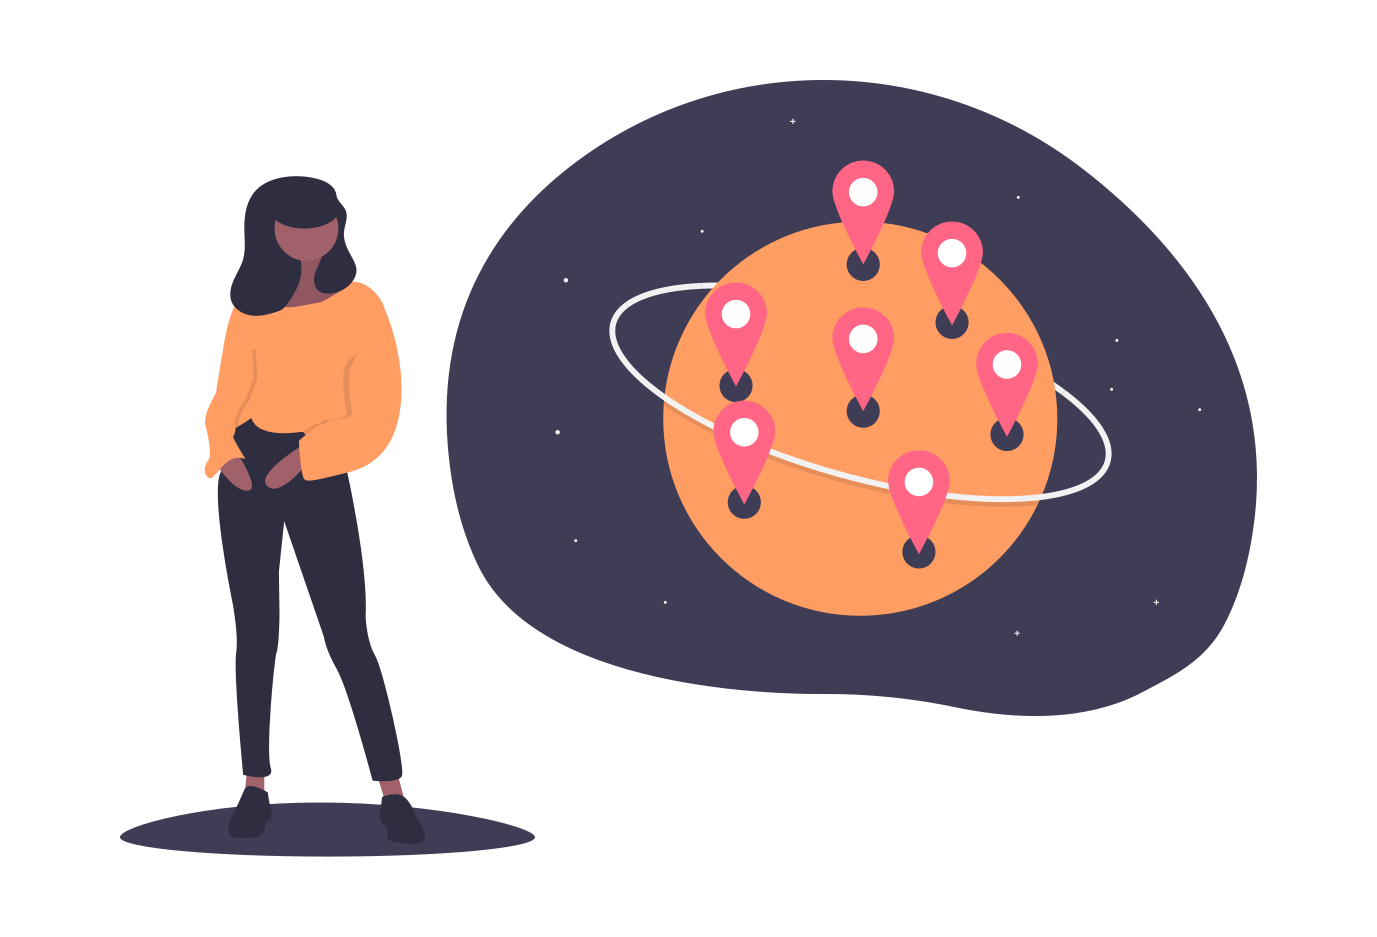
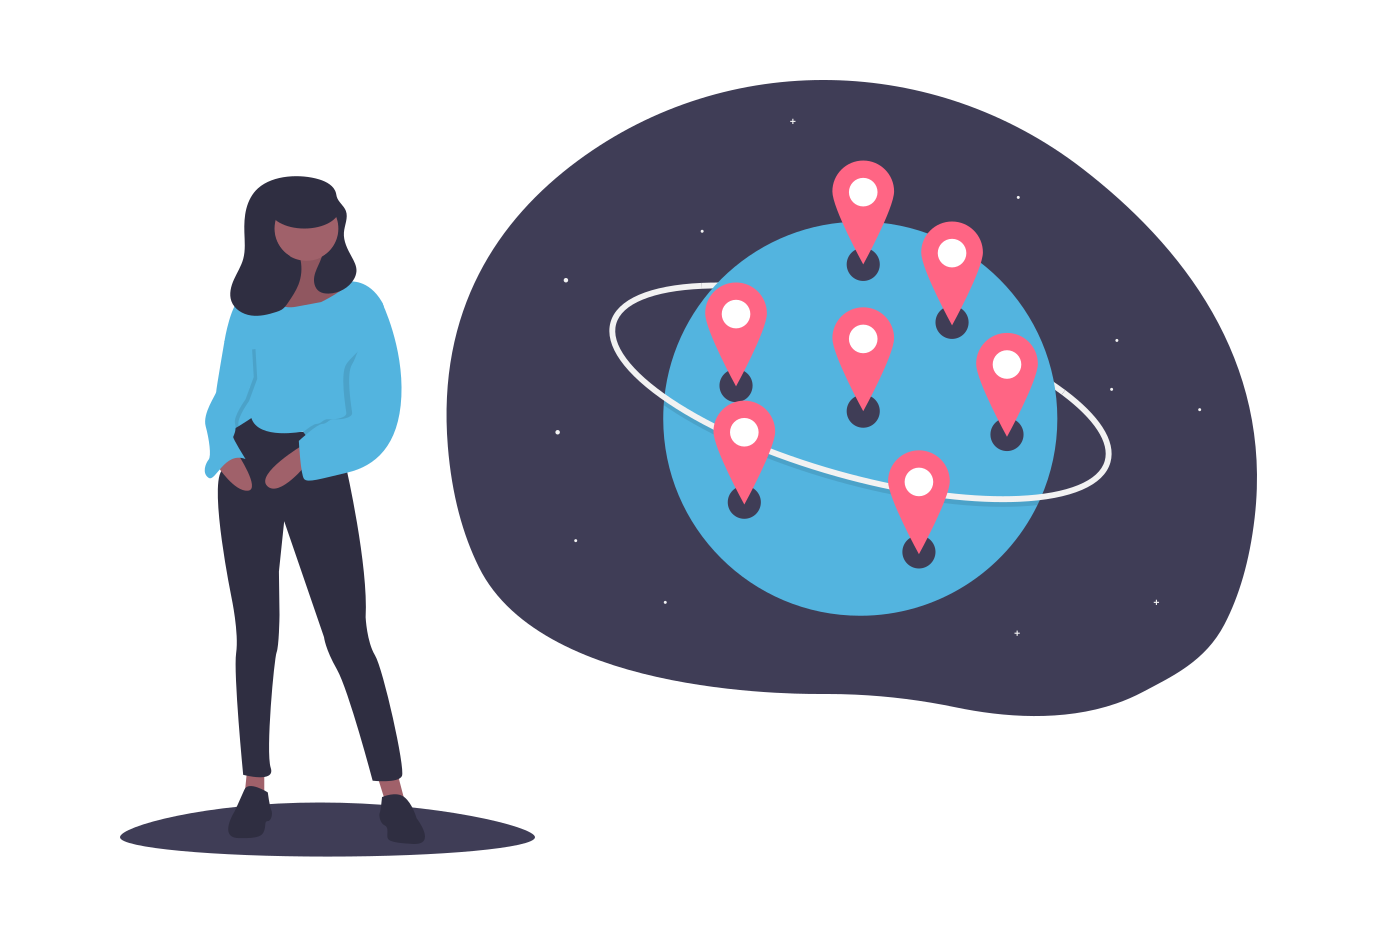
New Ui is all setup

Changed region(s): [[0.4684, 0.2166, 0.7807, 0.6809], [0.1249, 0.2785, 0.3123, 0.5261]]

diff --git a/app_flutter/readrun/lib/views/information.dart b/app_flutter/readrun/lib/views/information.dart
@@ -3,12 +3,13 @@ import 'package:auto_size_text/auto_size_text.dart';
 import 'package:flutter/material.dart';
 import 'package:flutter/painting.dart';
 import 'package:http/http.dart' as http;
+import 'package:readrun/constants.dart';
 import 'package:readrun/model/News.dart';
 import 'package:readrun/Widgets/Fetching_news_widget.dart';
-import 'package:google_fonts/google_fonts.dart';
 import 'package:readrun/views/server_down.dart';
 import 'package:readrun/views/starting_screen.dart';
 
+import '../HomeScreen.dart';
 import 'no_internet.dart';
 
 class Information extends StatefulWidget {
@@ -89,7 +90,7 @@ class _InformationState extends State<Information> {
                     return _buildStoryPage(list[currentIdx], active);
                   }
                 }),
-            StartScreen()
+            HomeScreen()
           ]);
 
   }
@@ -129,7 +130,7 @@ class _InformationState extends State<Information> {
                                       onPressed: () {print('Share');},
                                       icon: Icon(
                                         Icons.share,
-                                        color: Color(0xffFFBD95),size: 30,
+                                        color: kSecondaryColor,size: 30,
                                       ),
                                     ),
                             AutoSizeText('Share',
@@ -150,7 +151,7 @@ class _InformationState extends State<Information> {
                               },
                               icon: Icon(
                                 Icons.refresh,
-                                color: Color(0xffFFBD95),size: 30,
+                                color: kPrimaryColor,size: 30,
                               ),
                             ),
                             AutoSizeText('Refresh',
